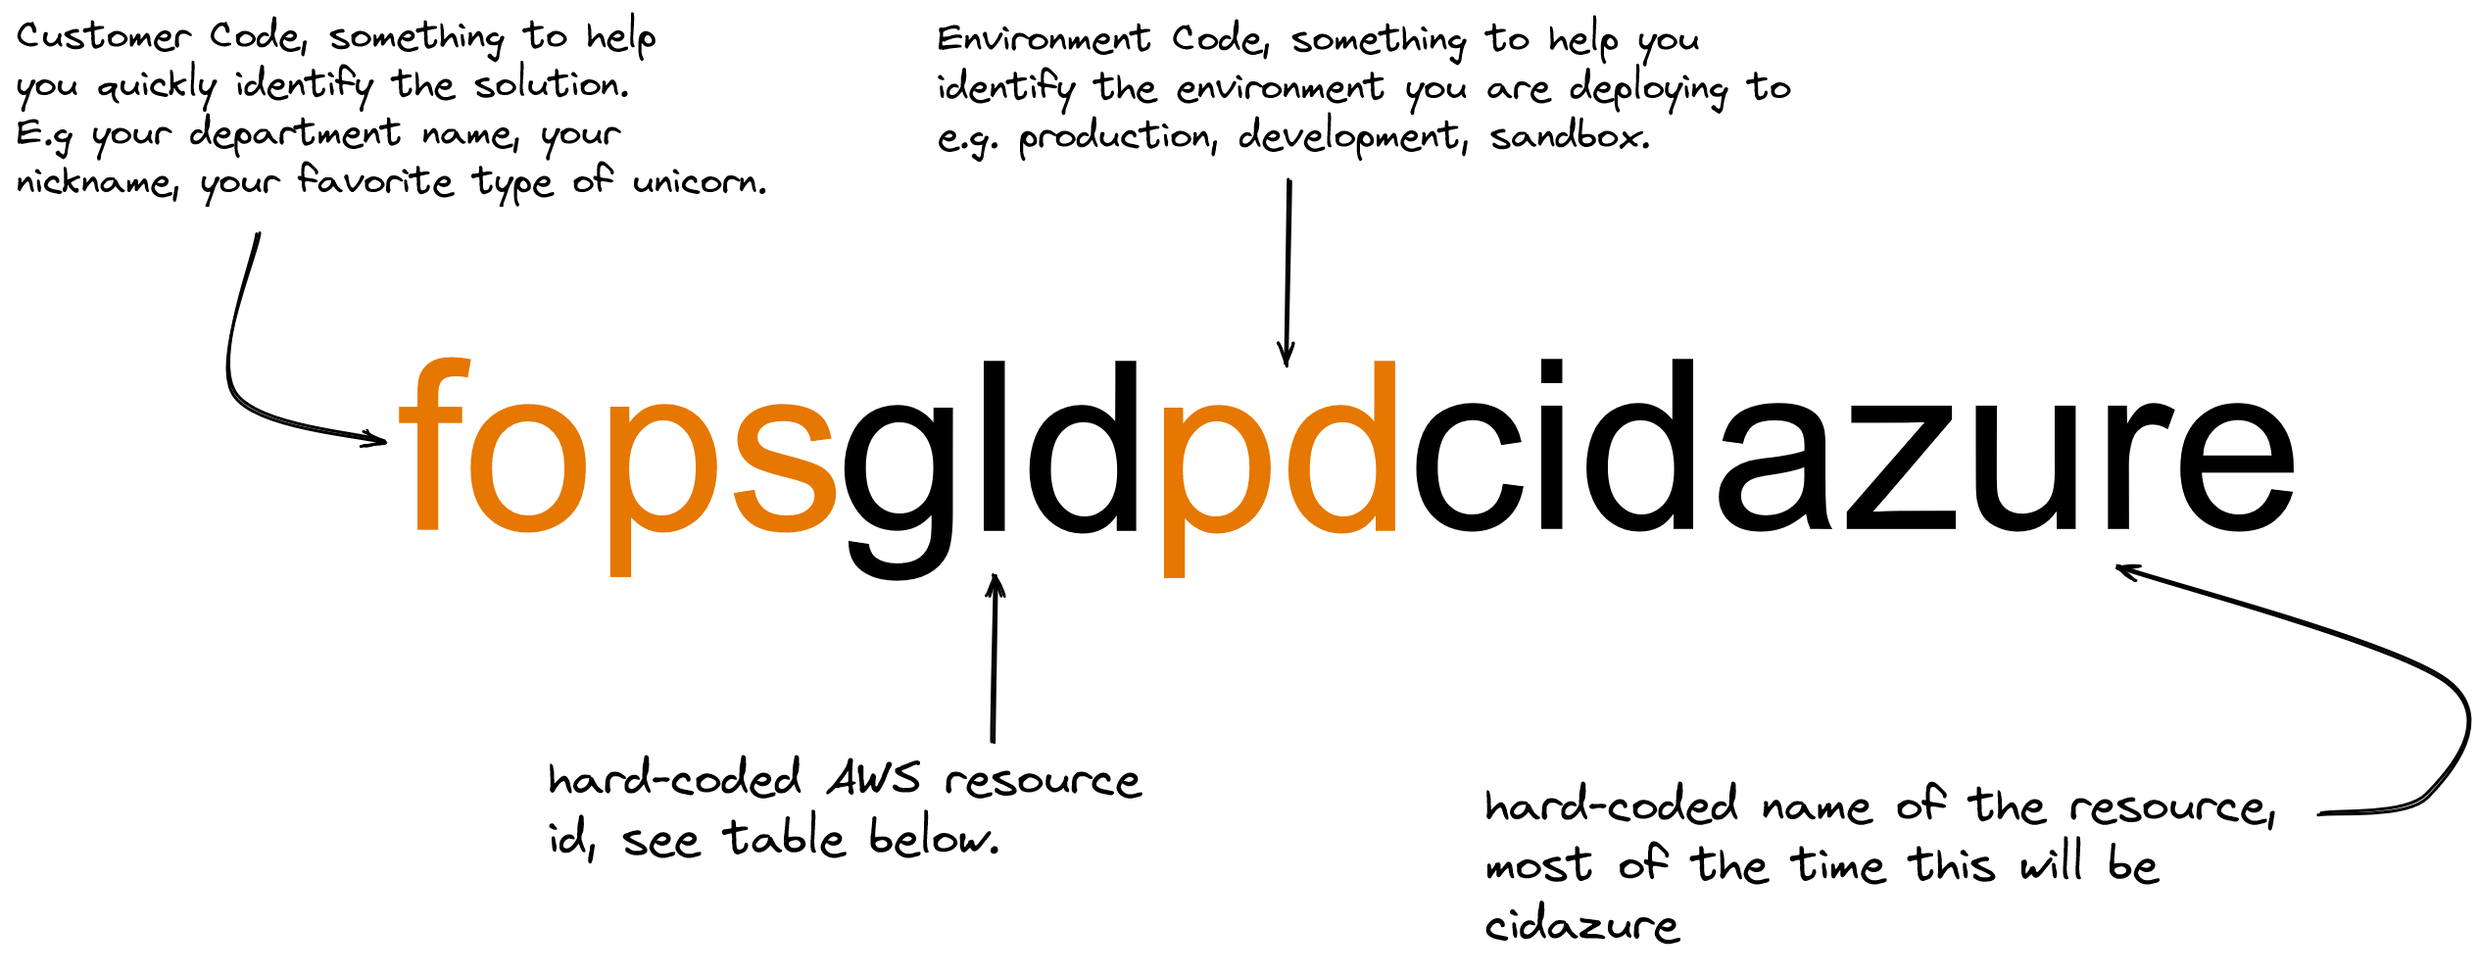
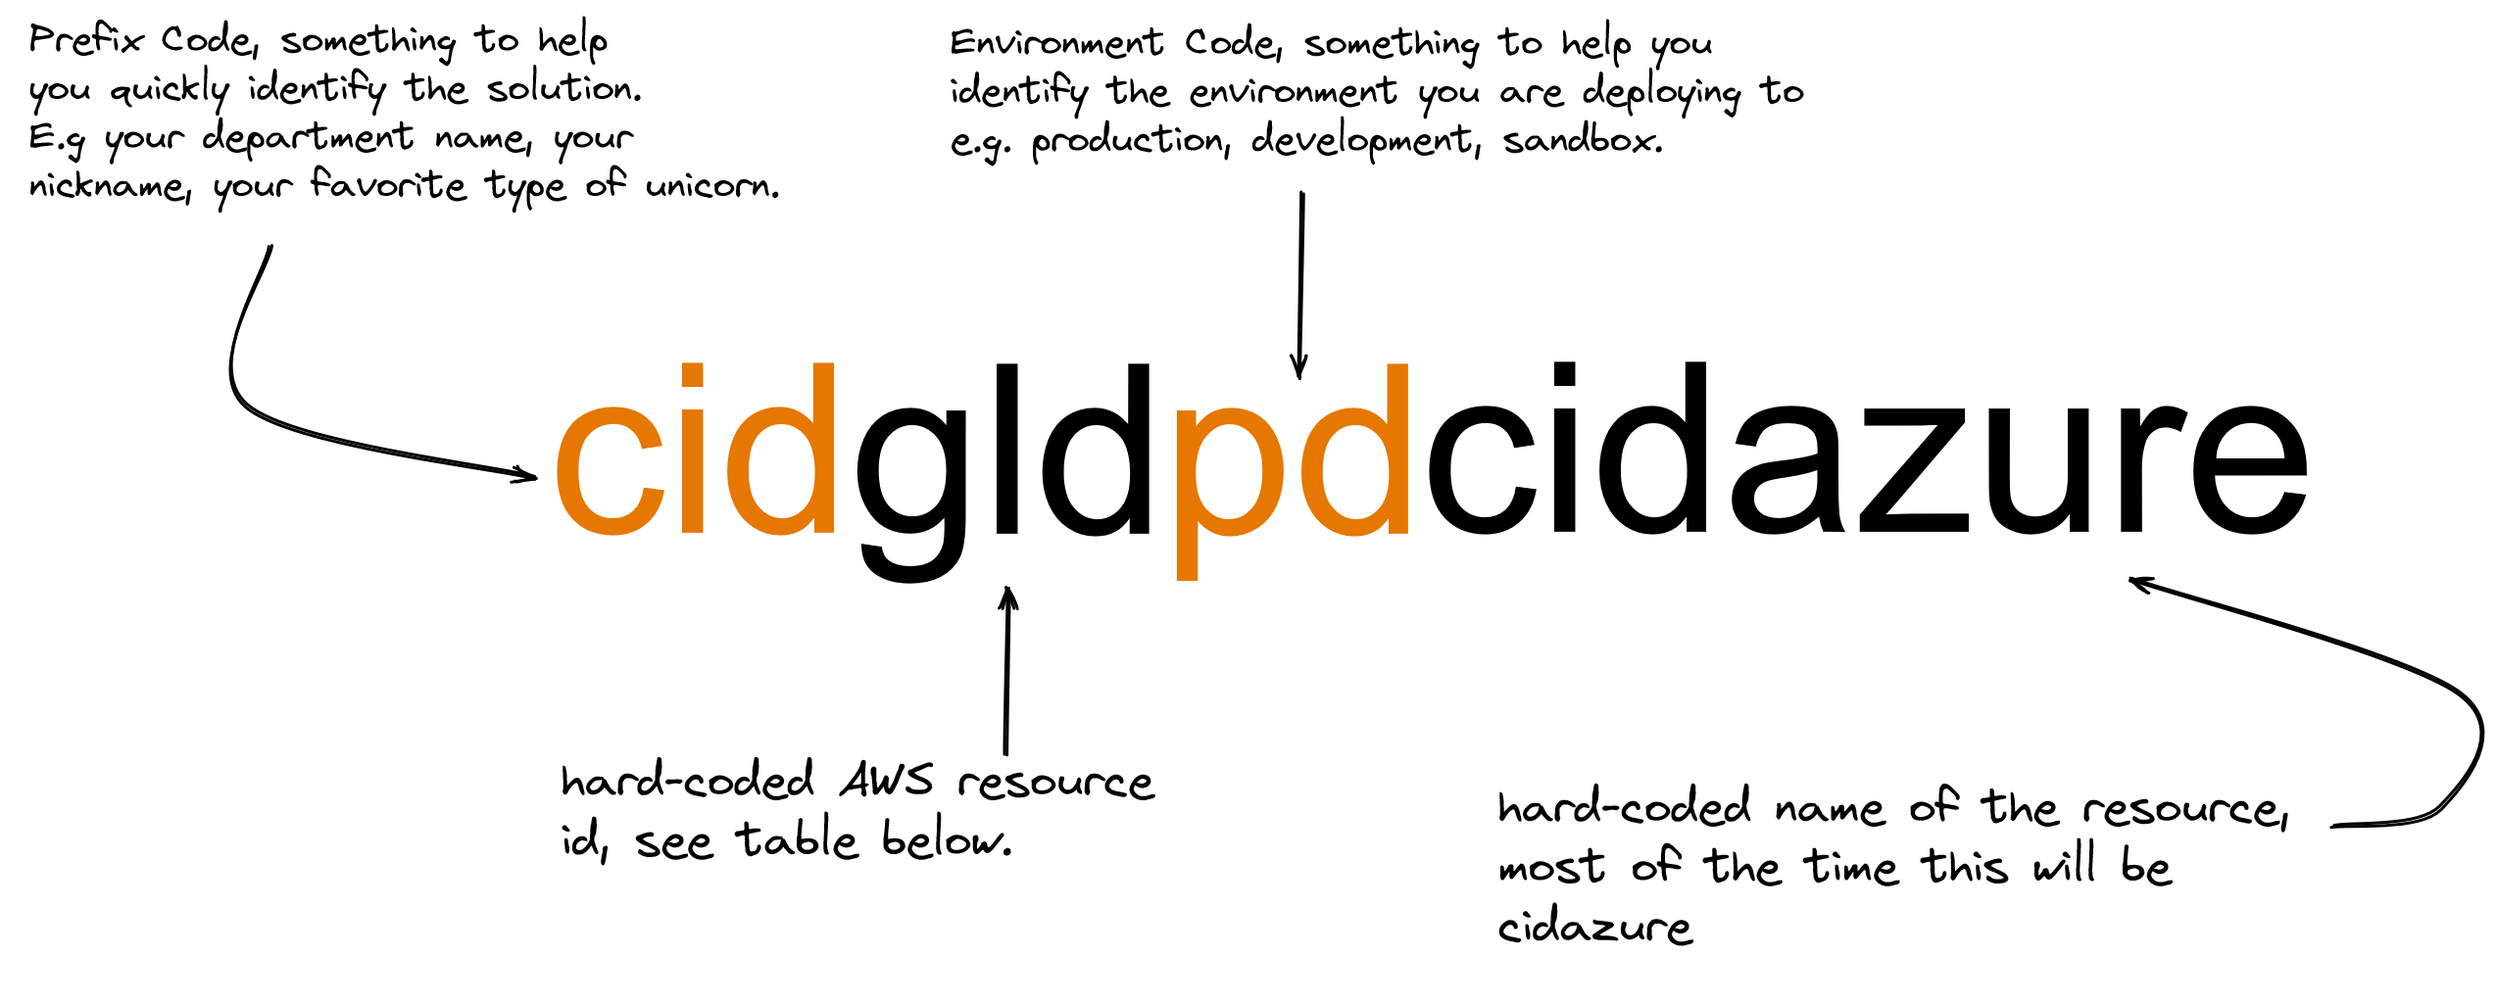
Meredith review

diff --git a/content/Cost/300_Labs/300_Cloud_Intelligence_Dashboards_for_Azure/2_setup.md b/content/Cost/300_Labs/300_Cloud_Intelligence_Dashboards_for_Azure/2_setup.md
@@ -39,7 +39,7 @@ If you encounter an error during the lab, head over to the [Observability and Tr
 * **cid-azure-stack.yaml** CloudFormation template
 * **cid-azure-dashboard.yaml** Sample QuickSight dashboard
 
-2. Place the files in a new Amazon S3 bucket. CloudFormation will access these during deployment. Don't use the name in the screenshot below, someone's already used it and Amazon S3 bucket names need to be globally unique.
+2. Place the files in a new Amazon S3 bucket in the same region you will be deploying the CloudFormation template. CloudFormation will access these during deployment. Don't use the name in the screenshot below, someone's already used it and Amazon S3 bucket names need to be globally unique.
 ![Images/cidazure-setup-cfn-s3source](/Cost/300_Cloud_Intelligence_Dashboard_for_Azure/Images/cidazure-setup-cfn-s3source.png?width=1000px)
 
 3. Click into **cid-azure-stack.yaml** and copy the Object URL. You'll need this in a moment.
@@ -114,7 +114,7 @@ Great job, you've completed the setup! Now move onto [Manual Run](#step-2-initia
 
 ### Step 2 Initial Manual Run
 {{%expand "Click to expand" %}}
-The solution runs automatically at the scheduled times you set in the deployment parameters. If you've had enough for today and want to stop, feel free to come back tomorrow, this part will complete automatically. If you want to visualize data straight away, then let's continue.
+The solution runs automatically at the scheduled times you set in the deployment parameters. If you've had enough for today and want to stop, feel free to come back tomorrow, this part will complete automatically and you can carry on with Step 3 to deploy the dashboard at that time. If you want to visualize data straight away, then let's continue.
 
 As part of the deployment we created a Resource Group to organize our resources into a single view. To view the Resource Group, browse to the **AWS Resource Groups & Tag Editor** service.
 ![Images/cidazure-setup-manual-resourcegroup](/Cost/300_Cloud_Intelligence_Dashboard_for_Azure/Images/cidazure-setup-manual-resourcegroup.png?width=600px)
@@ -136,7 +136,7 @@ Follow the instructions below to start a manual run.
 5. You should receive an *Execution result: succeeded* message.
 ![Images/cidazure-setup-manual-lambdasuccess](/Cost/300_Cloud_Intelligence_Dashboard_for_Azure/Images/cidazure-setup-manual-lambdasuccess.png?width=1000px)
 
-6. Head over to the **Amazon S3 bucket** created by the deployment. If you deployed via CloudFormation, the S3 bucket will start with the stack name. If you used Terraform the bucket will start with a prefix code you defined, followed by *sss* as the resource ID. You should see files starting to appear under the *azurecidraw* folder. Wait until all objects have been copied before moving onto the next step.
+6. Head over to the **Amazon S3 bucket** created by the deployment. **NOTE:** If you deployed via CloudFormation, the S3 bucket will start with the stack name. If you used Terraform the bucket will start with a prefix code you defined, followed by *sss* as the resource ID. You should see files starting to appear under the *azurecidraw* folder. Wait until all objects have been copied before moving onto the next step.
 ![Images/cidazure-setup-manual-s3appear](/Cost/300_Cloud_Intelligence_Dashboard_for_Azure/Images/cidazure-setup-manual-s3appear.png?width=1000px)
 
 7. Let's start the AWS Glue job and transform the data. Open the **AWS Glue** service and click into **ETL jobs**.
@@ -151,7 +151,7 @@ Follow the instructions below to start a manual run.
 10. When the job completes the run status will change to *succeeded*.
 ![Images/cidazure-setup-manual-gluesuccess](/Cost/300_Cloud_Intelligence_Dashboard_for_Azure/Images/cidazure-setup-manual-gluesuccess.png?width=1000px)
 
-11. Head back over to the same **Amazon S3 bucket** you accessed earlier. Two new folder have appeared. *azurecidparquet* contains parquet versions of the original CSV files. The original CSV files have moved to the *azurecidprocessed* folder and the *azurecidraw* folder has been deleted.
+11. Head back over to the same **Amazon S3 bucket** you accessed in  step 6. Two new folders have appeared. *azurecidparquet* contains parquet versions of the original CSV files. The original CSV files have moved to the *azurecidprocessed* folder and the *azurecidraw* folder has been deleted.
 ![Images/cidazure-setup-manual-s3processed](/Cost/300_Cloud_Intelligence_Dashboard_for_Azure/Images/cidazure-setup-manual-s3processed.png?width=1000px)
 
 12. Click into the *azurecidparquet* folder. You'll notice data is partitioned by month.
@@ -174,7 +174,7 @@ We've created a sample dashboard to get you started. We'll use the [**cid-cmd**]
 3. Install cid-cmd using the following command: `pip3 install -U git+https://github.com/aws-samples/aws-cudos-framework-deployment.git@prefixes`
 ![Images/cidazure-setup-dashboard-cidcmdinstall](/Cost/300_Cloud_Intelligence_Dashboard_for_Azure/Images/cidazure-setup-dashboard-cidcmdinstall.png?width=1000px)
 
-4. Run `aws s3 cp s3://SOURCEBUCKET/cid-azure-dashboard.yaml cid-azure-dashboard.yaml`. This will copy the QuickSight Dashboard template to CloudShell. Replace **SOURCEBUCKET**. This is the name of the bucket you uploaded the source files to way back at the start of the lab. In the screenshot below our bucket is called *awscidforazuresourcecode*
+4. Run `aws s3 cp s3://SOURCEBUCKET/cid-azure-dashboard.yaml cid-azure-dashboard.yaml`. This will copy the QuickSight Dashboard template to CloudShell. Replace **SOURCEBUCKET** with the name of the bucket you uploaded the source files to way back at the start of the lab. In the screenshot below our bucket is called *awscidforazuresourcecode*
 ![Images/cidazure-setup-dashboard-s3tocloudshell](/Cost/300_Cloud_Intelligence_Dashboard_for_Azure/Images/cidazure-setup-dashboard-s3tocloudshell.png?width=1000px)
 
 5. We've created the next command for you. Let's retrieve it. Open **AWS Systems Manager** in a new tab.
@@ -210,7 +210,7 @@ We've created a sample dashboard to get you started. We'll use the [**cid-cmd**]
 14. Toggle the **save as** switch to on, confirm the action and click **Go back to Azure Cost Dashboard**.
 ![cidazure-setup-dashboard-saveas](/Cost/300_Cloud_Intelligence_Dashboard_for_Azure/Images/cidazure-setup-dashboard-saveas.png?width=1000px)
 
-15. Refresh the web browser and you should see a new *save as* icon appear, It looks like a floppy disk (if you remember those).
+15. Refresh the web browser and you should see a new *save as* icon appear, it looks like a floppy disk (if you remember those).
 ![cidazure-setup-dashboard-floppy](/Cost/300_Cloud_Intelligence_Dashboard_for_Azure/Images/cidazure-setup-dashboard-floppy.png?width=1000px)
 
 16. Click to save the dashboard as a QuickSight analysis. Give it a name and click **SAVE**.
@@ -235,9 +235,9 @@ There are no constraints set on parameters. Some Parameters only exist for speci
 |Parameter|Section|Deployment|Guidance|
 |-|-|-|-|
 |SourceBucket|Common Settings|CloudFormation|Key name of the Amazon S3 bucket containing installation files .e.g. azure-arm-identity.zip, azure-arm-storage.zip, cid-azure-gluejob-cfn.py, cid-azure-lambda0x.zip files, cid-azure-stack.yaml. The deployment will fail if it cannot find source files.  |
-|CustomerCode|Common Settings|CloudFormation, Terraform|Used to prefix all resource names. If you set the value to **star**, the  following resources will be created **star**lmdpdcidazurelambda01 for Lambda01 and **star**gljpdcidazure for the AWS Glue job, etc. You can't set this to **aws** :_(
+|PrefixCode|Common Settings|CloudFormation, Terraform|Used to prefix all resource names. If you set the value to **star**, the  following resources will be created **star**lmdpdcidazurelambda01 for Lambda01 and **star**gljpdcidazure for the AWS Glue job, etc. You can't set this to **aws** :_(
 |EnvironmentCode|Common Settings|CloudFormation, Terraform|Used within the name of resources. This is useful when you need to deploy the solution to multiple environments. If you set the value to **dev**,  resources will be named starlmd**dev**cidazurelambda01 for Lambda01 and starglj**dev**cidazure for the AWS Glue job, etc.|
-|CustomerTag|Common Settings|CloudFormation, Terraform|All resources that can be tagged are tagged. Tagging adds descriptive metadata to each resource. This tag helps us identify the resources by department, e.g. finops, devops, IT shared services, etc.|
+|OwnerTag|Common Settings|CloudFormation, Terraform|All resources that can be tagged are tagged. Tagging adds descriptive metadata to each resource. This tag helps us identify the resources by department, e.g. finops, devops, IT shared services, etc.|
 |EnvironmentTag|Common Settings|CloudFormation, Terraform|All resources that can be tagged are tagged. Tagging adds descriptive metadata to each resource. This tag helps us identify resources by environment, e.g. production, development, testing, etc. |
 |Account Type|Microsoft Azure Settings|CloudFormation, Terraform|The type of agreement you have with Microsoft. Each agreement has a different data schema. Check [this](https://learn.microsoft.com/en-us/azure/cost-management-billing/automate/understand-usage-details-fields#list-of-fields-and-descriptions)link for details. To quickly determine your account type open an Azure cost export CSV file. If you have a *CostinBillingCurrency* column choose **MCA**. If you have a *Cost* column then go for **EA**, if you find a *PreTaxCost* column then select **PTAX**.|
 |AzureBlobURL|Microsoft Azure Settings|CloudFormation, Terraform|Lambda functions query the Azure blob endpoint URL specified here. You can get the URL from the Azure portal Storage Account >  Settings Section > Endpoints > Blob service|

diff --git a/content/Cost/300_Labs/300_Cloud_Intelligence_Dashboards_for_Azure/3_common_tasks.md b/content/Cost/300_Labs/300_Cloud_Intelligence_Dashboards_for_Azure/3_common_tasks.md
@@ -27,7 +27,7 @@ No doubt you'll want to create your own awesome visuals to help you interpret in
 5. Drag *dateparsed* into the **X axis** and *costinbillingcurrency* or *cost* into **Value**.
 ![Images/cidazure-common-visual-fieldwell](/Cost/300_Cloud_Intelligence_Dashboard_for_Azure/Images/cidazure-common-visual-fieldwell.png?width=1000px)
 
-6. Scroll down through the fields list. You'll notice a data field called *tags* this is the original column, in JSON format, from the Azure cost export. If you specified Azure tags during deployment you'll see additional data fields that start with *tag-*
+6. Scroll down through the fields list on the left hand side. You'll notice a data field called *tags* this is the original column, in JSON format, from the Azure cost export. If you specified Azure tags during deployment you'll see additional data fields that start with *tag-*
 ![Images/cidazure-common-visual-tagfields](/Cost/300_Cloud_Intelligence_Dashboard_for_Azure/Images/cidazure-common-visual-tagfields.png?width=300px)
 
 7. In our example we're going to select *tag-environment* and drag it into the **Group/Color** field well. 
@@ -37,30 +37,27 @@ No doubt you'll want to create your own awesome visuals to help you interpret in
 
 Tagging resources helps us drive accountability. It's an important part of cost optimization in any cloud. Read more [here.](https://docs.aws.amazon.com/whitepapers/latest/cost-optimization-laying-the-foundation/tagging.html?ref=wellarchitected)
 
-9. Select our new visual, click on the **Filter** icon and **Add Filter**.
+9. Select the new visual and right click on *null* in the legend.
 ![Images/cidazure-common-visual-filter](/Cost/300_Cloud_Intelligence_Dashboard_for_Azure/Images/cidazure-common-visual-filter.png?width=500px)
 
-10. Choose an appropriate tag, in our case it's *tag-environment*. Click the 3 dots and select **Edit**.
+10. Click on **Exclude null**. This will create a filter for the field tag-environment which excludes any null values and is applied to only this visual. 
 ![Images/cidazure-common-visual-configurefilter](/Cost/300_Cloud_Intelligence_Dashboard_for_Azure/Images/cidazure-common-visual-configurefilter.png?width=500px)
 
-11. Change the filter to exclude *NULL* and click **Apply**.
-![Images/cidazure-common-visual-editfilter](/Cost/300_Cloud_Intelligence_Dashboard_for_Azure/Images/cidazure-common-visual-editfilter.png?width=500px)
-
-12. The visual will update as below. Looks like our developers have been busy over the past few days!
+11. The visual will update as below. Looks like our developers have been busy over the past few days!
 ![cidazure-common-visual-filteredvisual](/Cost/300_Cloud_Intelligence_Dashboard_for_Azure/Images/cidazure-common-visual-filteredvisual.png?width=500px)
 
 Finally, let's create a filter to change the view on all visuals. We'll stick with *tag-environment*
 
-13. Click on any visual, click on the **Filter** icon and **Add Filter**. Select the tag you're interested in. 
+12. Click on any visual, click on the **Filter** icon and **Add Filter**. Select the *tag-environment field* field. 
 ![cidazure-common-visual-allfilter](/Cost/300_Cloud_Intelligence_Dashboard_for_Azure/Images/cidazure-common-visual-allfilter.png?width=1000px)
 
-14. Edit the filter as before, but this time in the *Applied to* box, select **All applicable visuals**. Leave the other settings as default and click **Apply**.
+13. Edit the filter by just clicking on it or by choosing **Edit** from the 3 dots menu. In the *Applied to* box, select **All applicable visuals**. Leave the other settings as default and click **Apply**.
 ![Images/cidazure-common-visual-allfilter2](/Cost/300_Cloud_Intelligence_Dashboard_for_Azure/Images/cidazure-common-visual-allfilter2.png?width=500px)
 
-15. Close the filter blade. Click the 3 dots and select **Pin to top**
+14. Close the filter blade by clicking the back arrow next to the Edit filter heading. Click the 3 dots and select **Pin to top**
 ![Images/cidazure-common-visual-pinfilter](/Cost/300_Cloud_Intelligence_Dashboard_for_Azure/Images/cidazure-common-visual-pinfilter.png?width=500px)
 
-16. We now have the ability to filter all visuals per tag.
+15. We now have the ability to filter all visuals per tag.
 ![Images/cidazure-common-visual-filterfinish](/Cost/300_Cloud_Intelligence_Dashboard_for_Azure/Images/cidazure-common-visual-filterfinish.png?width=1000px)
 
 Have a go at creating your own visuals. If you need help understanding the data fields, Microsoft provide documentation [here.](https://learn.microsoft.com/en-us/azure/cost-management-billing/automate/understand-usage-details-fields#list-of-fields-and-descriptions)

diff --git a/content/Cost/300_Labs/300_Cloud_Intelligence_Dashboards_for_Azure/_index.md b/content/Cost/300_Labs/300_Cloud_Intelligence_Dashboards_for_Azure/_index.md
@@ -45,12 +45,13 @@ Explore an example dashboard **TOCOMPLETE**
 
 1. An existing AWS Account or you must complete the [AWS account setup lab.](/cost/100_labs/100_1_aws_account_setup/)
 2. An Amazon QuickSight Enterprise Edition Account. If you do not already have one follow instructions [here.](https://aws.amazon.com/premiumsupport/knowledge-center/quicksight-enterprise-account/)
-3. A dedicated Azure Storage Account and blob storage container to house Azure cost management exports. Follow instructions [here.](https://learn.microsoft.com/en-us/azure/storage/common/storage-account-create?tabs=azure-portal) **All data within the blob storage container will be sent to Amazon S3**. It's best to use a dedicated blob container for this project.
-4. Make a note of the Blob endpoint URL found under storage accounts > [storage account name] > Settings > Endpoints > Blob service.
-5. Azure Active Directory application and service principal. Follow instructions [here.](https://learn.microsoft.com/en-us/azure/active-directory/develop/howto-create-service-principal-portal)**Note down the *Application secret* which is only displayed during setup.**
-6. The service principal must be assigned *Storage Blob Data Contributor* and *Storage Queue Data Contributor* roles scoped to the Storage Account used in step 3. Follow instructions [here.](https://learn.microsoft.com/en-us/azure/storage/blobs/assign-azure-role-data-access?tabs=portal)
-7. The Azure Active Directory application's *Application ID* and *Tenant ID*. Follow instructions [here.](https://learn.microsoft.com/en-us/azure/active-directory/develop/howto-create-service-principal-portal#sign-in-to-the-application)
-8. Microsoft Azure must be configured to export cost management data to the dedicated Azure storage container used in step 3 on a daily recurring schedule. Follow instructions [here.](https://learn.microsoft.com/en-us/azure/cost-management-billing/costs/tutorial-export-acm-data?tabs=azure-portal)
+3. Enough QuickSight SPICE capacity to accommodate your data set. To purchase SPICE, follow instructions [here.](https://docs.aws.amazon.com/quicksight/latest/user/managing-spice-capacity.html#spice-capacity-purchasing)
+4. A dedicated Azure Storage Account and blob storage container to house Azure cost management exports. Follow instructions [here.](https://learn.microsoft.com/en-us/azure/storage/common/storage-account-create?tabs=azure-portal) **All data within the blob storage container will be sent to Amazon S3**. It's best to use a dedicated blob container for this project.
+5. Make a note of the Blob endpoint URL found under storage accounts > [storage account name] > Settings > Endpoints > Blob service.
+6. Azure Active Directory application and service principal. Follow instructions [here.](https://learn.microsoft.com/en-us/azure/active-directory/develop/howto-create-service-principal-portal)**Note down the *Application secret* which is only displayed during setup.**
+7. The service principal must be assigned *Storage Blob Data Contributor* and *Storage Queue Data Contributor* roles scoped to the Storage Account used in step 3. Follow instructions [here.](https://learn.microsoft.com/en-us/azure/storage/blobs/assign-azure-role-data-access?tabs=portal)
+8. The Azure Active Directory application's *Application ID* and *Tenant ID*. Follow instructions [here.](https://learn.microsoft.com/en-us/azure/active-directory/develop/howto-create-service-principal-portal#sign-in-to-the-application)
+9. Microsoft Azure must be configured to export cost management data to the dedicated Azure storage container used in step 3 on a daily recurring schedule. Follow instructions [here.](https://learn.microsoft.com/en-us/azure/cost-management-billing/costs/tutorial-export-acm-data?tabs=azure-portal)
 
 {{% notice warning %}}
 Do not export data for Actual cost (Usage and Purchases) and Amortized cost (Usage and Purchases) to the same Azure storage container. Pick one to avoid unnecessary Azure egress charges.
@@ -78,7 +79,7 @@ You'll need permissions to create all **AWS resources** shown below through **AW
 Costs for this lab include the following components;
 
 * **AWS resources**. The resources created within this lab typically cost less than **$100** a month. 
-* **QuickSight Enterprise**. License costs start at **$18** a month.
+* **QuickSight Enterprise**. Author licenses are $18/month with an annual commitment or $24/month without a commitment.
 * **Microsoft Azure egress data charges**. Please refer to [this](https://azure.microsoft.com/en-us/pricing/details/bandwidth/) link.
 
 ### Duration
